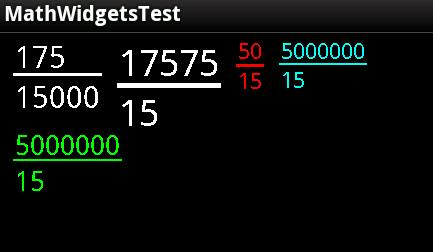
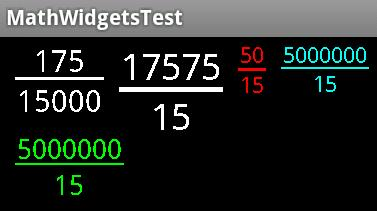
Corrected alignments of the text

diff --git a/MathWidgets/src/com/sandrstar/android/mathwidgets/FractionLineNumber.java b/MathWidgets/src/com/sandrstar/android/mathwidgets/FractionLineNumber.java
@@ -57,7 +57,12 @@ public class FractionLineNumber extends android.view.View {
      */
     private int mWidth = 0;
     private int mHeight = 0;
-    private int mXOffset = 0;
+    /** Flag to indicate which text (top or down) is longer */
+    private boolean mUpAlign = false;
+    /** Offset for down text, to draw it centered */
+    private int mXDownOffset;
+    /** Offset for up text, to draw it centered */
+    private int mXUpOffset;
 
     /**
      * Simple constructor to use when creating a view from code.
@@ -433,17 +438,17 @@ public class FractionLineNumber extends android.view.View {
         final Rect clipRect = canvas.getClipBounds();
 
         // Draw up text
-        canvas.translate(clipRect.left + getPaddingLeft() + this.mXOffset,
+        canvas.translate(clipRect.left + getPaddingLeft() + this.mXUpOffset,
                          clipRect.top + getPaddingTop() + (-this.mTextPaint.ascent() + this.mTextPaint.descent()));
         canvas.drawText(this.mUpText, 0, 0, this.mTextPaint);
 
         // Draw middle line
-        canvas.translate(-this.mXOffset,
+        canvas.translate(-this.mXUpOffset,
                          this.spacing + this.mLineWeight);
         canvas.drawRect(0, 0, this.mWidth, this.mLineWeight, this.mLinePaint);
 
         // Draw down text
-        canvas.translate(this.mXOffset,
+        canvas.translate(this.mXDownOffset,
                          (-this.mTextPaint.ascent() + this.mTextPaint.descent()));
         canvas.drawText(this.mDownText, 0, 0, this.mTextPaint);
 
@@ -454,13 +459,35 @@ public class FractionLineNumber extends android.view.View {
      * Validates mWidth and mHeight variables or calculates them for first time
      */
     private void validateDimensions() {
-        this.mWidth = (int)(Math.max(this.mTextPaint.measureText(this.mUpText),
-                                     this.mTextPaint.measureText(this.mDownText)) +
-                            this.spacing * 2);
+
+        int downWidth = (int)this.mTextPaint.measureText(this.mDownText);
+        int upWidth = (int)this.mTextPaint.measureText(this.mUpText);
+
+        if(downWidth < upWidth) {
+
+            this.mUpAlign = true;
+        }
+        else {
+
+            this.mUpAlign = false;
+        }
+
+        this.mWidth = Math.max(downWidth, upWidth) +
+                      this.spacing * 2;
+
+        if(this.mUpAlign) {
+
+            this.mXDownOffset = (int) (((float)this.mWidth / 2) - ((float)downWidth / 2));
+            this.mXUpOffset = this.spacing;
+        } else {
+
+            this.mXUpOffset = (int) (((float)this.mWidth / 2) - ((float)upWidth / 2));
+            this.mXDownOffset = this.spacing;
+        }
+
         this.mHeight = (int)((-this.mTextPaint.ascent() + this.mTextPaint.descent()) * 2 +
                              this.spacing * 2 +
                              this.mLineWeight);
 
-        this.mXOffset = this.spacing;
     }
 }

diff --git a/MathWidgetsTest/src/com/sandrstar/android/mathwidgetstest/MathWidgetsTest.java b/MathWidgetsTest/src/com/sandrstar/android/mathwidgetstest/MathWidgetsTest.java
@@ -14,8 +14,8 @@ package com.sandrstar.android.mathwidgetstest;
 import android.util.Log;
 
 public class MathWidgetsTest extends android.test.ActivityInstrumentationTestCase2<MathWidgetsTestActivity> {
+    @SuppressWarnings("unused")
     private MathWidgetsTestActivity mActivity = null;
-    private final Integer TESTTIMEOUT = 120000;
     private final static String TAG = MathWidgetsTest.class.getSimpleName();
     enum MathWidgetsTestStatus {
         COMPLETE,
